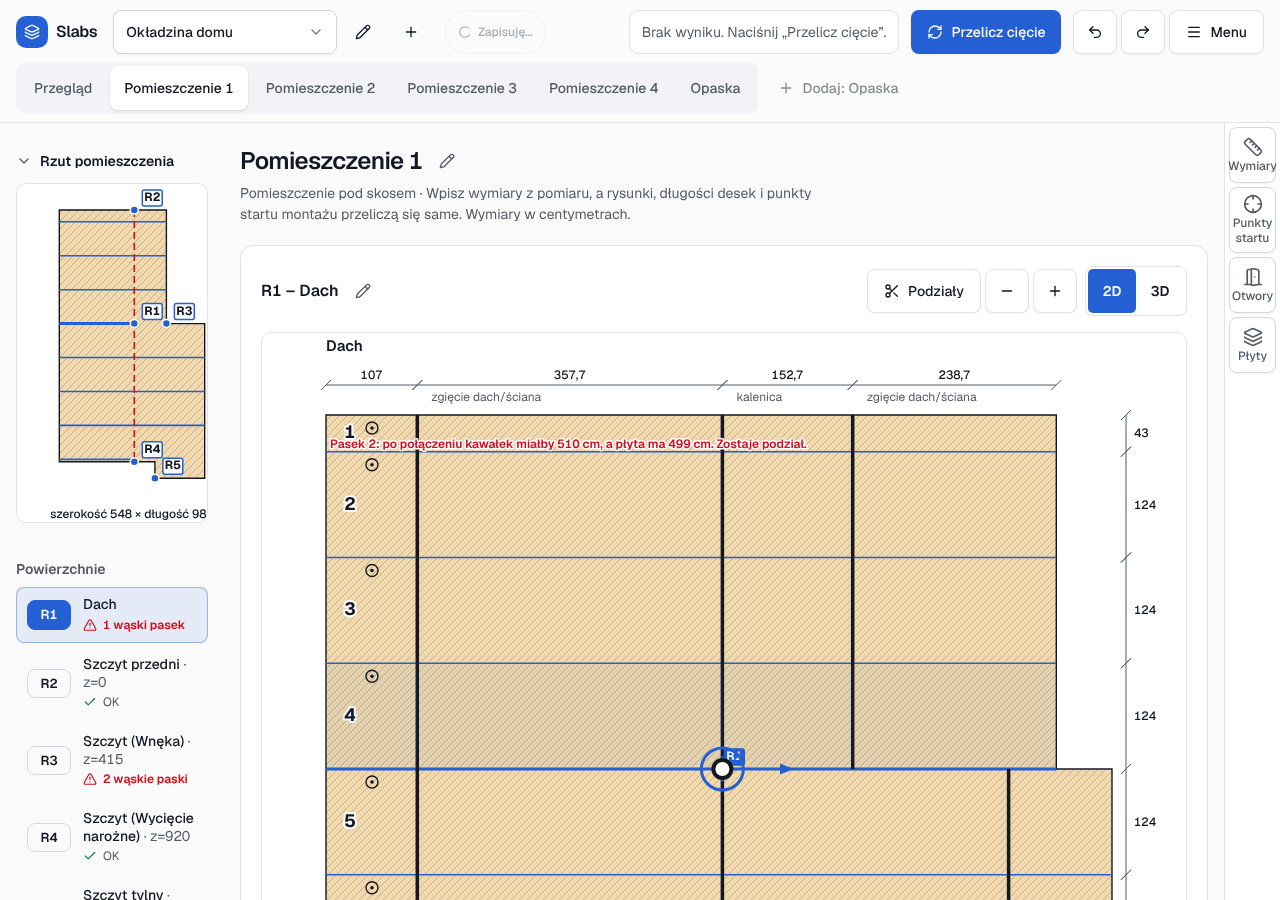
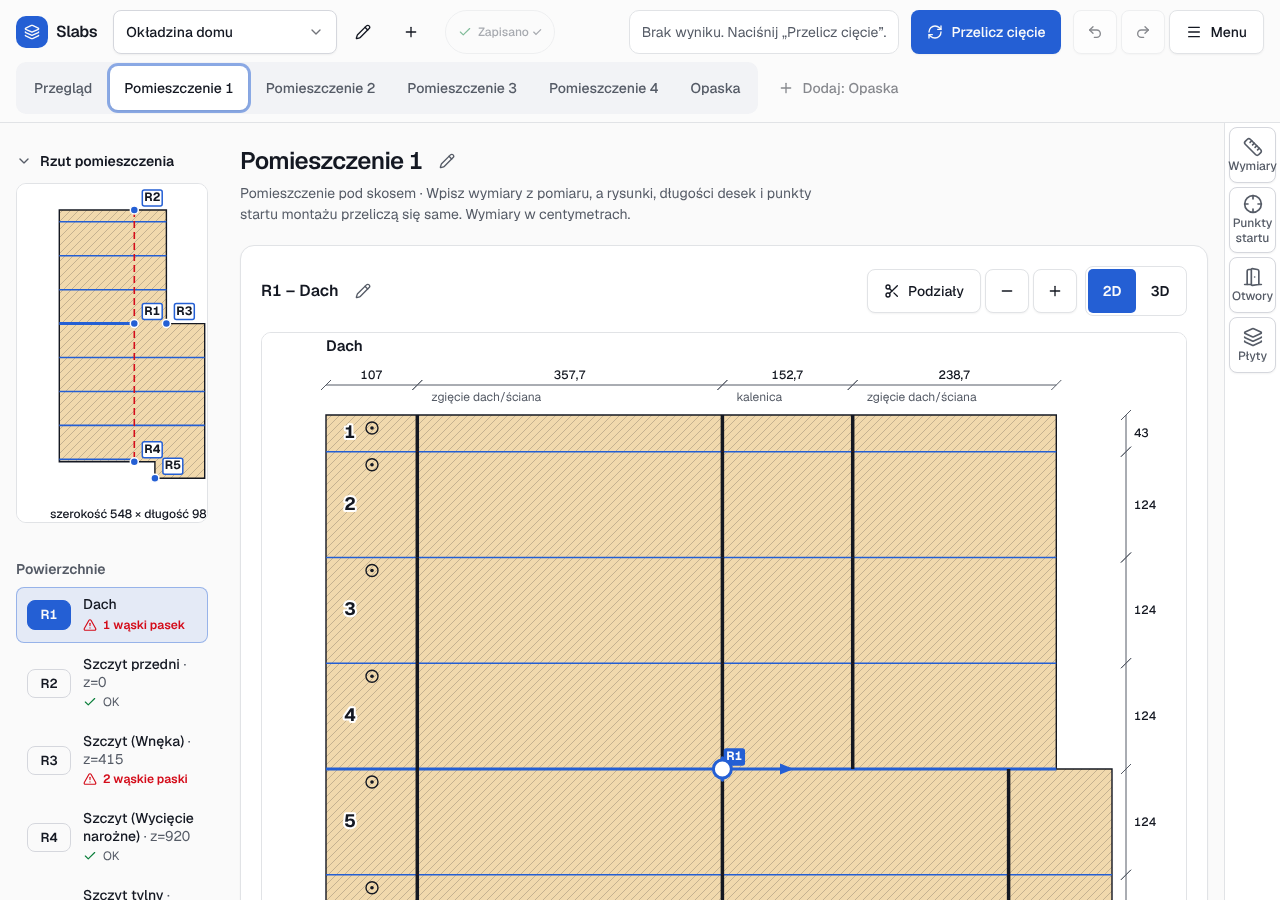
Roof sheet: critique fixes (legend, undo toast on cross-cut removal), screenshots, STATUS and DESIGN
Claude-Session: https://claude.ai/code/session_01HB857nVNieoMcBdH7r2P7x

Changed region(s): [[0.25, 0.4667, 0.625, 0.4978], [0.0938, 0.0622, 0.1875, 0.0933], [0.5312, 0.84, 0.5938, 0.8711]]

diff --git a/packages/web/src/components/RoomScreen.tsx b/packages/web/src/components/RoomScreen.tsx
@@ -40,6 +40,7 @@ function Legend({ sheet }: { sheet: boolean }) {
       <li>{sw('<line x1="1" y1="8" x2="27" y2="8" class="mk-split"/>')}{s.room.legend.split}</li>
       {sheet && <li>{sw('<line x1="1" y1="8" x2="27" y2="8" class="mk-sp-on"/>')}{s.sheet.legendSplit}</li>}
       {sheet && <li>{sw('<line x1="1" y1="8" x2="27" y2="8" class="mk-xcut"/>')}{s.sheet.legendCut}</li>}
+      {sheet && <li>{sw('<line x1="1" y1="8" x2="27" y2="8" class="mk-split"/>')}{s.sheet.legendAuto}</li>}
     </ul>
   );
 }
@@ -103,7 +104,7 @@ export function RoomScreen({ id }: { id: RoomId }) {
       setAnnounce(s.sheet.cutAdded(idOf(k)));
     },
     onMoveCut: (k, from, to) => { if (to !== from) setSplits(id, moveStripCut(splits, k, from, to), `cut.${k}`); },
-    onRemoveCut: (k, u) => { setSplits(id, removeStripCut(splits, k, u)); setAnnounce(s.sheet.cutRemoved(idOf(k))); },
+    onRemoveCut: (k, u) => { setSplits(id, removeStripCut(splits, k, u)); setAnnounce(s.sheet.cutRemoved(idOf(k))); showToast(s.sheet.cutRemoved(idOf(k)), true); },
     onKeyAddCut: (k) => { const u = suggestCut(sheetModel, splits, k, sab); if (u !== null) { setSplits(id, addStripCut(splits, k, u), `cut.${k}`); setAnnounce(s.sheet.cutAdded(idOf(k))); } },
   } : undefined;
   const [announce, setAnnounce] = useState('');
@@ -215,7 +216,7 @@ export function RoomScreen({ id }: { id: RoomId }) {
           <CardContent className="flex flex-col gap-3">
             <div ref={frameRef} className="overflow-hidden rounded-lg border" data-frame>{show3d ? <Suspense fallback={<p className="muted p-4" role="status" style={{ height: frameH }}>{s.view3d.loading}</p>}><View3D model={model} name={roomName(id)} openings={roomOpenings} options={opts} selected={selKey} onSelect={(k) => select(id, k)} height={frameH} /></Suspense> : marks && <SurfaceEditor html={drawing} drawing={marks} onShift={(p, v) => setParam(id, p, v)} onMeasure={(p, v) => { setEmpty(`${id}.${p}`, false); setParam(id, p, v); }} validate={validate} onEmpty={(p) => setEmpty(`${id}.${p}`, true)} onPinch={(f) => setZoom((z) => Math.max(0.5, Math.min(3, z * f)))} empty={empty.filter((x) => x.startsWith(id + '.')).map((x) => x.slice(id.length + 1))} nameOf={nameOf} onShowInPanel={(p) => usePanel.getState().openAt('dims', { kind: 'dim', room: id, key: p })} title={sel.label} sheet={sheetEdit} ops={{ openings: surfOpenings, selected: selOpening, onSelect: (oid) => { selectOpening(oid); if (oid) usePanel.getState().openAt('openings', { kind: 'opening', room: id, key: oid }, undefined, false); }, onChange: (oid, pts) => setOpening(id, oid, pts), onRemove: (oid) => removeOpening(id, oid), kindName: (k) => s.openings.kinds[k] ?? k }} />}</div>
             <p id="v3-help" className="hint !p-0">{show3d ? s.view3d.help : s.room.dragHint}</p>
-            {!show3d && sheetEdit && <p className="hint !p-0" data-sheet-hint>{s.sheet.hint}</p>}
+            {!show3d && sheetEdit && <p className="text-sm text-foreground" data-sheet-hint>{s.sheet.hint}</p>}
             <p className="sr-only" role="status" aria-live="polite" data-sheet-live>{announce}</p>
             {joinMsg && !show3d && <p className="warnbox" role="status" data-join-msg><AlertTriangle className="mt-0.5 size-4 shrink-0 text-destructive" /><span>{joinMsg.text}</span></p>}
             {!show3d && sheetModel && sheetModel.notes.map((n) => <p key={n.strip} className="warnbox" role="note"><AlertTriangle className="mt-0.5 size-4 shrink-0 text-warning" /><span>{s.sheet.joinedLong(n.id, Math.round(n.len), Math.round(n.max))}</span></p>)}

diff --git a/packages/web/src/i18n/pl.ts b/packages/web/src/i18n/pl.ts
@@ -137,7 +137,7 @@ export const pl = {
     legendCut: 'cięcie poprzeczne (pióro/wpust)',
     legendAuto: 'cięcie automatyczne: płyta jest za krótka',
     note: 'Podziały na kalenicy i zgięciach to zwykłe cięcia; cięcie poprzeczne w płaskiej części łączy płyty piórem i wpustem.',
-    migration: (n: number) => `Dach każdego pomieszczenia jest teraz jednym arkuszem z jednym punktem startu R. ${n > 0 ? 'Pominięto stare przesunięcia pozostałych połaci:' : ''}`,
+    migration: (n: number) => `Dach każdego pomieszczenia jest teraz jednym arkuszem z jednym punktem startu R. ${n > 0 ? 'Pominięto stare przesunięcia pozostałych połaci:' : ''}`.trim(),
     migrationItem: (room: string, name: string, cm: number) => `${room}: ${name} (${cm > 0 ? '+' : ''}${cm} cm)`,
     migrationNames: (n: number) => `Nazwy dawnych połaci (${n}) nie są już używane.`,
     migrationOk: 'Rozumiem',

diff --git a/packages/web/src/i18n/en.ts b/packages/web/src/i18n/en.ts
@@ -137,7 +137,7 @@ export const en: Strings = {
     legendCut: 'cross-cut (tongue/groove)',
     legendAuto: 'automatic cut: the plate is too short',
     note: 'Splits at the ridge and folds are plain cuts; a cross-cut in a flat part joins the plates with tongue and groove.',
-    migration: (n: number) => `The roof of every room is now one sheet with one start point R. ${n > 0 ? 'The old offsets of the other roof parts were dropped:' : ''}`,
+    migration: (n: number) => `The roof of every room is now one sheet with one start point R. ${n > 0 ? 'The old offsets of the other roof parts were dropped:' : ''}`.trim(),
     migrationItem: (room: string, name: string, cm: number) => `${room}: ${name} (${cm > 0 ? '+' : ''}${cm} cm)`,
     migrationNames: (n: number) => `Names of the old roof parts (${n}) are no longer used.`,
     migrationOk: 'Got it',

diff --git a/docs/STATUS.md b/docs/STATUS.md
@@ -255,3 +255,4 @@ Requirement: the whole project is stored in a file on a server and updated on ev
 * **Migration** (`sanitizeProject`, file `version` stays 1; also on the server for cloud-saved files): a project without `splits` is an older one. The roof sheet's R is the old default start (ZO + o1); the offsets o2..o5 are set to 0 and listed once in a dismissible note ("Zmiana dachu", undoable) with the names of old roof parts that had a custom name (dropped); openings drawn on the old roof segments 1-5 move onto the sheet (left slope mirrored, cut-out wall measured from its fold).
 * **Tests**: `core/src/sheet.test.ts` (parity, splits, cross-cuts, automatic cuts, sanitising, openings), `core/src/mesh3d.test.ts` (sheet model), `web/src/state/roofsheet.test.ts` (project data, undo, request, migration), e2e block "roof sheet" in `smoke.mjs` (surface list, labels, refused join, keyboard, undo, header actions, cross-cut add / move / remove with keyboard and mouse, R1, phone).
 * **Assumptions (owner not available)**: (1) the wall fold at a cut-out wall follows the project setting like the other folds (the per-segment model always cut there); (2) the room's centre line of a bedroom with a flat top is called "oś pomieszczenia" and is still a split line (default split, as the ridge); (3) automatic cuts are counted from the end nearest the ridge / the cut-out wall fold; (4) a stored join that became too long after a dimension change is cut automatically instead of blocking the cut, with a note on the strip; (5) the right-hand knee wall is cut at the start of a corner cut-out and at a recess like the per-segment model (parity), the left slope is not; (6) openings on gable walls and the 3D "Start R" ball sit as before; (7) the old per-surface names of roof segments are dropped, not mapped; (8) `lazienka-2` (flat ceiling) is unchanged and has no roof sheet.
+* **Impeccable critique of the room screen (Dach sheet), once: 27/40, no P0.** Method: dual-agent (design review from source and screenshots; detector static + live via CDP in the room state). Detector: no findings in the four room files; live: nested-cards (the sheet frame in its card, the warning box, the empty state: intentional), line-length on a note, text-occlusion on the drawing text under the transparent interaction overlay (false positives: text is visible, contrast measured 17.7:1 light / 16.6:1 dark), advisory 13 px text in ParamForm / Fields (pre-existing). Measured: switches 24 px wide, 28 on the sheet; the shortest segments (strips cut by the outline, 3-8 px high) are smaller than 24 px but the strip body next to them stays hittable. P1 fixed once: (1) clickability was taught only by a grey sentence under the drawing: the hint is body text directly under the frame (above it the frame would move between 2D and 3D, which the 2D|3D switch forbids), and the legend lists all four marks (split, cross-cut, automatic cut, fold); (2) a click removes a cross-cut without confirmation: removal now shows a toast with Undo. Dangling colon of the migration note fixed. Not done (P2/P3): hover ghost line with a cm readout and snapping for new cross-cuts, typed cross-cut position, one verb pair for the marks, a first-use callout, the refusal text staying until the next edit, focus order on long sheets, fold labels clipped at the frame edge on a phone, clicking the sliver warning in the list to highlight the strip.
